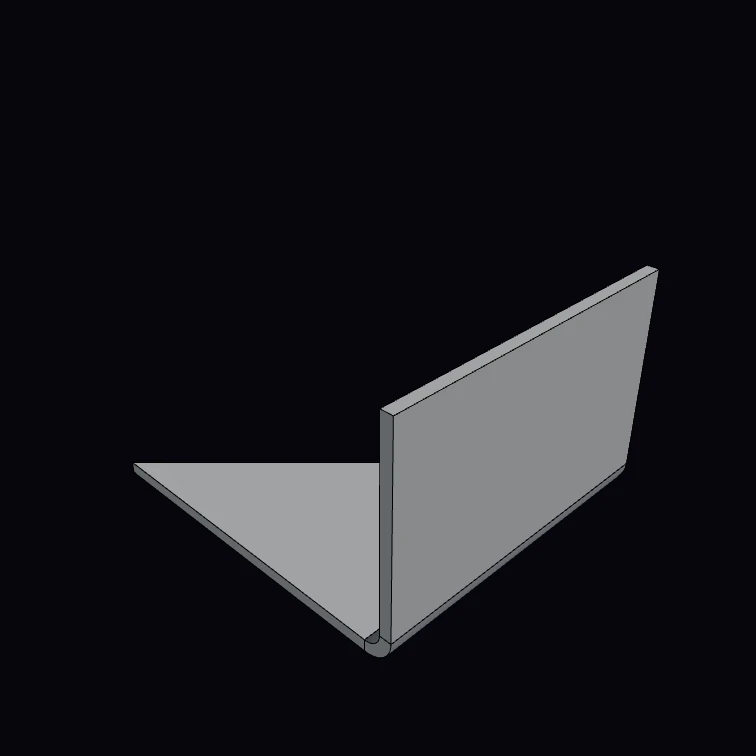
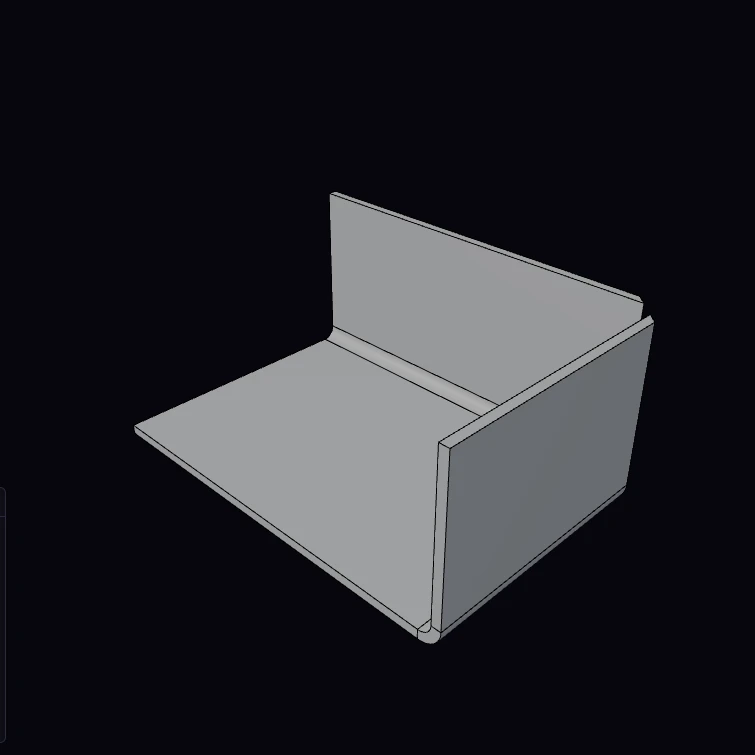
fix(sheetmetal): miterCorner trims the flange ends, not half of the part
The miter plane normal was the sum of the two bend-axis directions. That vector lies
along the diagonal of the part, so the cut removed about half of it. The normal is now
the sum of the two directions that point out of the part across each bend line.

Changed region(s): [[0.1828, 0.2437, 0.8834, 0.8834]]

diff --git a/packages/brepjs-sheetmetal/src/miterFns.ts b/packages/brepjs-sheetmetal/src/miterFns.ts
@@ -17,7 +17,7 @@ import {
   vecDot,
   vecNormalize,
 } from 'brepjs';
-import type { SheetMetalPart } from './types.js';
+import type { BendFeature, SheetMetalPart } from './types.js';
 import { normalizeSolid } from './internal.js';
 
 /** An oriented cutting plane: material on the `+normal` side is removed. */
@@ -46,10 +46,10 @@ export function miterCut(part: SheetMetalPart, plane: MiterPlane): Result<SheetM
 }
 
 /**
- * Auto corner-miter between two adjacent flanges. The miter plane bisects the two
- * flanges' fold-up directions at their shared corner and is offset by half the gap,
- * so the cut falls on the flat/flange regions and never crosses a bend patch. The
- * single bisector cut trims both flanges to a clean mitered corner.
+ * Auto corner-miter between two adjacent flanges. The miter plane is vertical at
+ * their shared corner, bisects the two directions that point out of the part, and
+ * is offset outward by half the gap. The single cut trims the ends of both flanges
+ * to a clean mitered corner and leaves the base flat and the bend lines whole.
  */
 export function autoMiterCorner(
   part: SheetMetalPart,
@@ -75,10 +75,16 @@ export function autoMiterCorner(
   const axisB = vecNormalize(bendB.axisDir);
   const corner = cornerPoint(bendA.axisOrigin, axisA, bendB.axisOrigin, axisB);
 
-  // Each flange runs perpendicular to its own bend axis. The miter plane contains
-  // the corner and is spanned by the two bend axes; its normal is their bisector in
-  // the run plane, which is exactly the bisector of the two flange run directions.
-  const planeNormal = miterNormal(axisA, axisB);
+  // The miter plane is vertical at the corner, and its normal bisects the two
+  // directions that point out of the part across each bend line. The cut removes
+  // the +normal side, which holds only the ends of the two flanges.
+  const planeNormal = miterNormal(
+    axisA,
+    bendLineMid(part, bendA, axisA),
+    axisB,
+    bendLineMid(part, bendB, axisB),
+    corner
+  );
   if (planeNormal === undefined) {
     return err(
       validationError('PARALLEL_FLANGES', 'autoMiterCorner: flange bend axes are parallel; no corner to miter')
@@ -109,19 +115,28 @@ function cornerPoint(originA: Vec3, dirA: Vec3, originB: Vec3, dirB: Vec3): Vec3
   return vecAdd(originA, vecScale(dirA, sc));
 }
 
+/** Midpoint of a bend line. The line starts at the axis origin and runs the span of its flange. */
+function bendLineMid(part: SheetMetalPart, bend: BendFeature, axis: Vec3): Vec3 {
+  const span = part.flanges.find((f) => f.id === bend.id)?.span ?? 0;
+  return vecAdd(bend.axisOrigin, vecScale(axis, span / 2));
+}
+
 /**
- * Normal of the miter plane between two flanges whose bend axes are `dirA`/`dirB`.
- * The plane is spanned by the two axes (it contains the corner edge of each
- * flange); its normal is `dirA × dirB` rotated to bisect — equivalently the
- * normalized sum of the two run directions, which both lie perpendicular to the
- * respective axis in the part's run plane.
+ * Normal of the miter plane between two flanges whose bend axes are `dirA`/`dirB`:
+ * the bisector of the two directions that point out of the part. The outward
+ * direction of a flange is perpendicular to its bend axis in the plane of the two
+ * axes, and points away from the bend line of the other flange (`midA`/`midB` are
+ * the midpoints of the two bend lines). The bend axes do not give this direction:
+ * their sum lies along the diagonal of the part, and a cut there removes half of it.
  */
-function miterNormal(dirA: Vec3, dirB: Vec3): Vec3 | undefined {
-  const cross = vecCross(dirA, dirB);
-  if (Math.hypot(cross[0], cross[1], cross[2]) < 1e-9) return undefined;
-  const sum = vecAdd(dirA, dirB);
-  if (Math.hypot(sum[0], sum[1], sum[2]) < 1e-9) return vecNormalize(cross);
-  return vecNormalize(sum);
+function miterNormal(dirA: Vec3, midA: Vec3, dirB: Vec3, midB: Vec3, corner: Vec3): Vec3 | undefined {
+  const up = vecCross(dirA, dirB);
+  if (Math.hypot(up[0], up[1], up[2]) < 1e-9) return undefined;
+  const outward = (dir: Vec3, otherMid: Vec3): Vec3 => {
+    const run = vecNormalize(vecCross(dir, up));
+    return vecDot(run, vecSub(otherMid, corner)) > 0 ? vecScale(run, -1) : run;
+  };
+  return vecNormalize(vecAdd(outward(dirA, midB), outward(dirB, midA)));
 }
 
 const Z_AXIS: Vec3 = [0, 0, 1];

diff --git a/packages/brepjs-sheetmetal/tests/miter.test.ts b/packages/brepjs-sheetmetal/tests/miter.test.ts
@@ -1,0 +1,94 @@
+import { describe, expect, it, beforeAll } from 'vitest';
+import { getBounds, isErr, isValid, measureVolume, unwrap } from 'brepjs';
+import { author, miterCorner } from '../src/api.js';
+import type { FlangeSide } from '../src/authorFns.js';
+import { initKernel } from '../../../tests/setup.js';
+
+beforeAll(async () => {
+  await initKernel();
+}, 30000);
+
+const T = 1.5;
+const rule = { innerRadius: 2, kFactor: 0.44 };
+const LENGTH = 60;
+const WIDTH = 40;
+const flange = (id: string, side: FlangeSide) => ({ id, side, length: 25, angleDeg: 90, rule });
+
+describe('miterCorner: the 3D cut', () => {
+  const corners: [FlangeSide, FlangeSide][] = [
+    ['xmax', 'ymax'],
+    ['ymax', 'xmin'],
+    ['xmin', 'ymin'],
+    ['ymin', 'xmax'],
+  ];
+
+  for (const [a, b] of corners) {
+    for (const [first, second] of [
+      [a, b],
+      [b, a],
+    ] as const) {
+      it(`trims only the flange ends at the ${first}/${second} corner`, () => {
+        const authored = author({
+          thickness: T,
+          base: { length: LENGTH, width: WIDTH },
+          flanges: [flange('a', first), flange('b', second)],
+        });
+        expect(authored.ok).toBe(true);
+        if (isErr(authored)) return;
+        const before = authored.value.solid;
+        expect(before).toBeDefined();
+        if (before === undefined) return;
+
+        const mitered = miterCorner(authored.value, 'a', 'b', 2.5);
+        expect(mitered.ok).toBe(true);
+        if (isErr(mitered)) return;
+        const after = mitered.value.solid;
+        expect(after).toBeDefined();
+        if (after === undefined) return;
+
+        expect(isValid(after)).toBe(true);
+        // The cut takes a small prism from the end of each flange, not a part of the base.
+        const lost = unwrap(measureVolume(before)) - unwrap(measureVolume(after));
+        expect(lost).toBeGreaterThan(0);
+        expect(lost).toBeLessThan(0.02 * unwrap(measureVolume(before)));
+        // The base flat and both flanges keep their full extent.
+        const was = getBounds(before);
+        const now = getBounds(after);
+        for (const key of ['xMin', 'xMax', 'yMin', 'yMax', 'zMin', 'zMax'] as const) {
+          expect(now[key]).toBeCloseTo(was[key], 6);
+        }
+      });
+    }
+  }
+
+  it('miters the four corners of a tray and keeps the tray', () => {
+    const authored = author({
+      thickness: T,
+      base: { length: LENGTH, width: WIDTH },
+      flanges: [flange('east', 'xmax'), flange('north', 'ymax'), flange('west', 'xmin'), flange('south', 'ymin')],
+    });
+    expect(authored.ok).toBe(true);
+    if (isErr(authored)) return;
+    const before = authored.value.solid;
+    expect(before).toBeDefined();
+    if (before === undefined) return;
+
+    let part = authored.value;
+    for (const [a, b] of [
+      ['east', 'north'],
+      ['north', 'west'],
+      ['west', 'south'],
+      ['south', 'east'],
+    ] as const) {
+      const mitered = miterCorner(part, a, b, 2.5);
+      expect(mitered.ok).toBe(true);
+      if (isErr(mitered)) return;
+      part = mitered.value;
+    }
+    const after = part.solid;
+    expect(after).toBeDefined();
+    if (after === undefined) return;
+    expect(isValid(after)).toBe(true);
+    expect(unwrap(measureVolume(after))).toBeGreaterThan(0.95 * unwrap(measureVolume(before)));
+  });
+});
